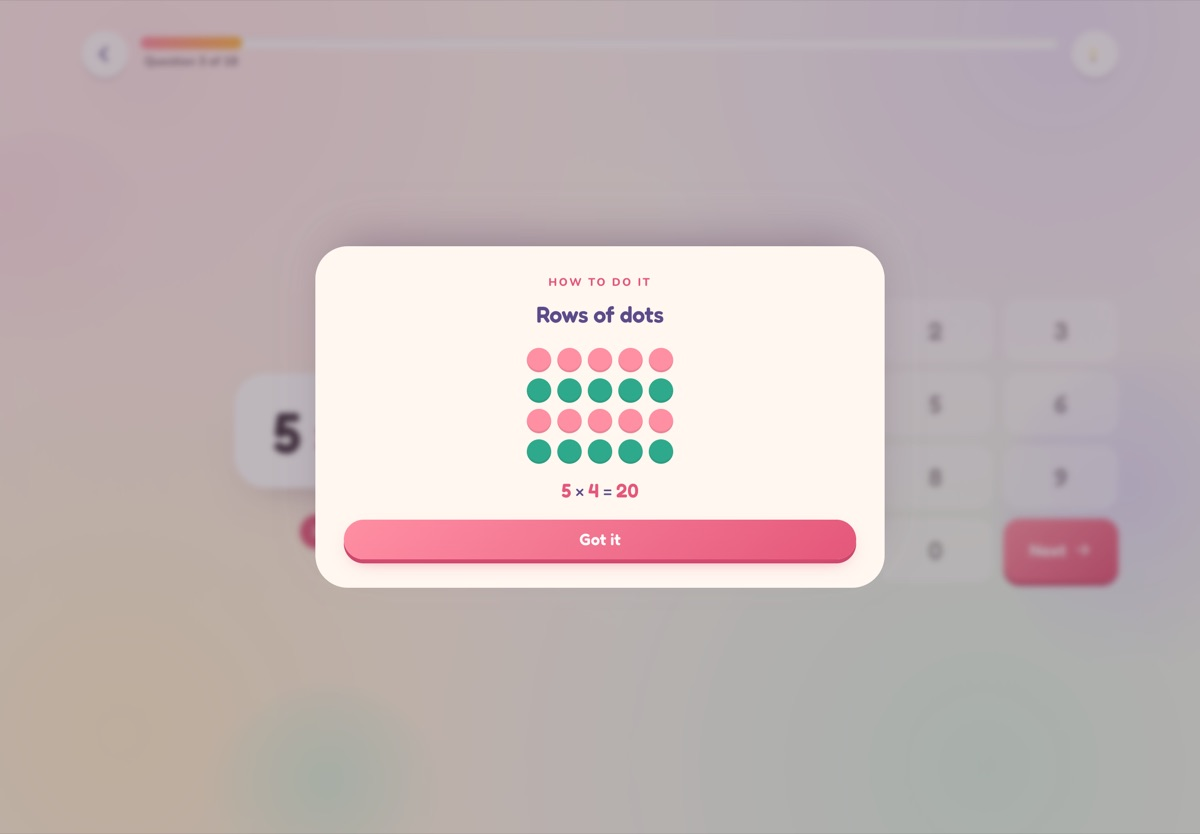
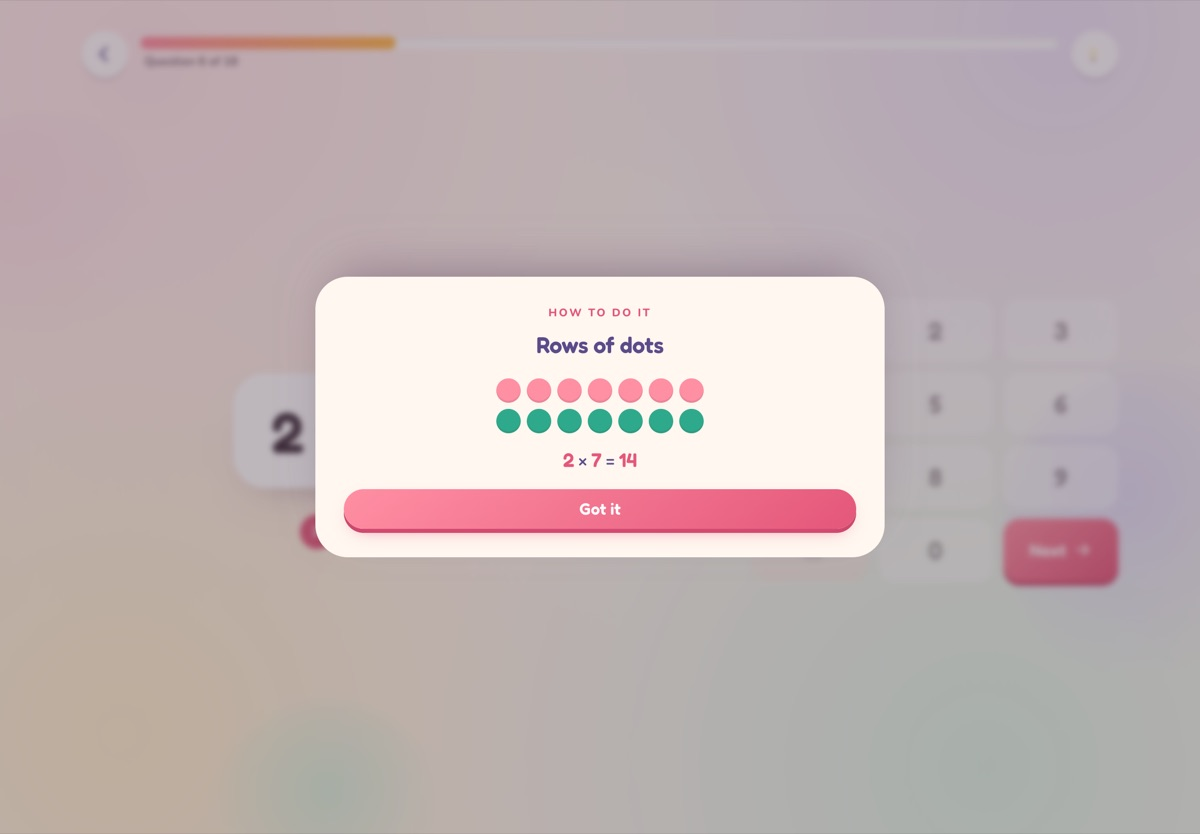
fix: switch quiz-set selection instantly instead of fading the border
A transitioning border can be captured half-way (both cards look selected),
and the lift is the only part worth animating anyway. Screenshots refreshed
for the docs.

Changed region(s): [[0.2467, 0.2806, 0.74, 0.717], [0.185, 0.0312, 0.3392, 0.0624], [0.2158, 0.4988, 0.2775, 0.5612]]

diff --git a/src/styles/app.css b/src/styles/app.css
@@ -458,7 +458,8 @@ h3 {
   box-shadow: var(--shadow-card);
   cursor: pointer;
   text-align: left;
-  transition: transform 0.18s ease, border-color 0.18s ease, box-shadow 0.18s ease;
+  /* Only the lift animates: a border transition can be captured mid-flight. */
+  transition: transform 0.18s ease;
 }
 
 .level:hover {
@@ -563,7 +564,8 @@ h3 {
   box-shadow: var(--shadow-card);
   cursor: pointer;
   text-align: left;
-  transition: transform 0.18s ease, border-color 0.18s ease, box-shadow 0.18s ease;
+  /* Only the lift animates: a border transition can be captured mid-flight. */
+  transition: transform 0.18s ease;
 }
 
 .track:hover {
